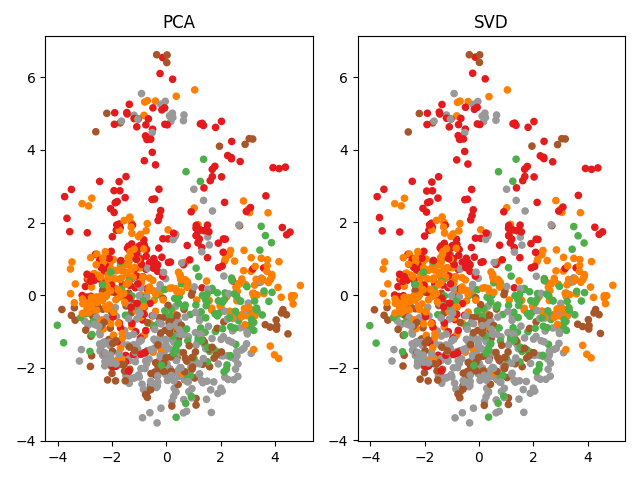
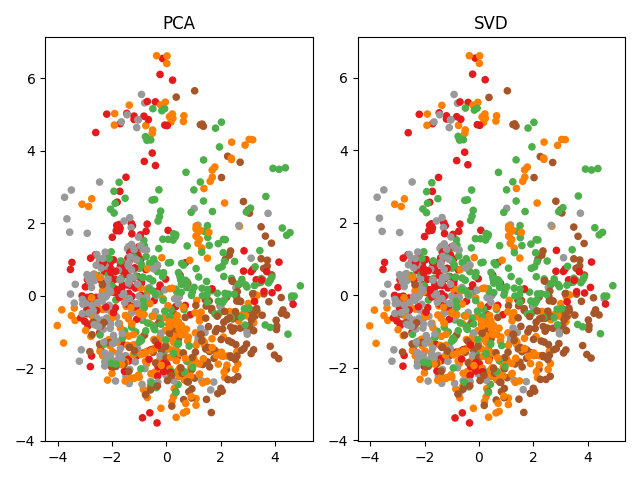
gmm

diff --git a/GMM/gmm.py b/GMM/gmm.py
@@ -1,84 +1,95 @@
-from sklearn.preprocessing import MinMaxScaler
-from sklearn.neighbors import KDTree
-from sklearn.datasets import load_iris
-from sklearn import neighbors
-from sklearn.cluster import KMeans
-from scipy import stats
 import numpy as np
+from sklearn.mixture import GaussianMixture
+from scipy.stats import multivariate_normal
 import matplotlib.pyplot as plt
-import pandas as pd
+from matplotlib.patches import Ellipse
 
-import math
-     
+class GMM:
+    def __init__(self, n_clusters, max_epochs, convergence_threshold, data, file):
+        self.n_clusters = n_clusters
+        self.max_epochs = max_epochs
+        self.convergence_threshold = convergence_threshold
+        self.data = data
+        self.file = file
+        self.centers = None
+        self.covs = None
+        self.weights = None
+        self.responsibilities = None
 
-# Se carga el dataset
+    def fit_(self, X):
+        gmm = GaussianMixture(n_components=self.n_clusters)
+        gmm.fit(X)
+        self.centers = gmm.means_
+        self.covs = gmm.covariances_
+        self.weights = gmm.weights_
 
-iris = load_iris()
+        # EM algorithm
+        prev_log_likelihood = None
+        for epoch in range(self.max_epochs):
+            print("EPOCH", epoch)
 
-X = iris.data[:,2:]
-Y = iris.target.reshape(-1, 1)
+            # E-step
+            log_likelihood, responsibilities = self._e_step(X)
 
-scaler = MinMaxScaler()
-X = scaler.fit_transform(X)
+            # Check convergence
+            if prev_log_likelihood is not None and np.abs(log_likelihood - prev_log_likelihood) < self.convergence_threshold:
+                break
 
+            # M-step
+            self._m_step(X, responsibilities)
 
-     
+            prev_log_likelihood = log_likelihood
 
-# Modelo
-def gauss(X, clusters=3):
-  # KMeans
-  kmeans = KMeans(n_clusters=clusters, n_init="auto").fit(X)
-  labels = kmeans.labels_
-  centers = kmeans.cluster_centers_
-  covs = []
-  for i in range(clusters):
-    covs.append(np.cov(X[labels==i].T))
+    def _e_step(self, X):
+        likelihood = np.zeros([X.shape[0], self.n_clusters])
+        for i in range(self.n_clusters):
+            multi_normal = multivariate_normal(self.centers[i], self.covs[i])
+            likelihood[:, i] = multi_normal.pdf(X)
 
-  covs = np.array(covs)
+        likelihood *= self.weights
 
-  pi = np.array([(labels==i).sum() for i in range(clusters)]) / len(labels)
+        responsibilities = likelihood / likelihood.sum(axis=1, keepdims=True)
+        responsibilities = np.nan_to_num(responsibilities, nan=1e-8)
 
-  return centers, covs, pi
+        log_likelihood = np.log(likelihood.sum(axis=1)).sum()
 
+        self.responsibilities = responsibilities
+        
+        return log_likelihood, responsibilities
 
-def EM(X, centers, covs, pi):
-  for epoch in range(100): # Se eligen 100 epochs
-    if epoch % 50 == 0:
-      print("EPOCH", epoch)
+    def _m_step(self, X, responsibilities):
+        N = responsibilities.sum(axis=0)
 
+        for i in range(self.n_clusters):
+            resp_col = responsibilities[:, i].reshape(-1, 1)
+            self.centers[i] = np.sum(resp_col * X, axis=0) / N[i]
+            dif = X - self.centers[i]
+            self.covs[i] = np.dot((resp_col * dif).T, dif) / N[i]
 
-  # Cálculo de likelihood
-  likelihood = np.zeros([X.shape[0], len(pi)])
+        self.weights = N / X.shape[0]
 
-  for i in range(len(pi)):
-    multi_normal = stats.multivariate_normal(centers[i], covs[i])
-    for j in range(X.shape[0]):
-      likelihood[j][i] = multi_normal.pdf(X[j])
-  
-  for i in range(len(pi)):
-    likelihood[:,i] *= pi[i]
+    def plot(self, X):
+        # Plot data points
+        plt.scatter(X[:, 0], X[:, 1], c=self.responsibilities.argmax(axis=1))
 
-  y = likelihood/likelihood.sum(1)[:,None]
+        # Plot cluster centers
+        plt.scatter(self.centers[:, 0], self.centers[:, 1], c='red', marker='x', label='Cluster Centers')
 
-  N = y.sum(0)
-  for i in range(len(pi)):
-    y_col = y[:, i].reshape(-1,1)
-    centers[i] = np.sum(y_col*X, 0) / N[i]
-    dif = X - centers[i]
-    covs[i] = np.dot((y_col * dif).T, dif) 
-    covs[i] /= N[i]
+        # Plot ellipses for covariance matrices
+        for i in range(self.n_clusters):
+            cov = self.covs[i]
+            center = self.centers[i]
+            eigenvalues, eigenvectors = np.linalg.eigh(cov)
 
-  pi = N/X.shape[0] 
+            angle = np.degrees(np.arctan2(eigenvectors[1, 0], eigenvectors[0, 0]))
+            width = 2 * np.sqrt(2 * eigenvalues[0])
+            height = 2 * np.sqrt(2 * eigenvalues[1])
 
-  return centers, covs, pi, y
+            ellipse = Ellipse(center, width, height, angle, edgecolor='r', facecolor='none')
+            plt.gca().add_patch(ellipse)
 
-  
-     
-
-centers, covs, pi = gauss(X)
-centers, covs, pi, y = EM(X, centers, covs, pi)
-
-labels = np.argmax(y, 1)
-
-print(labels.reshape(-1))
-print(Y.reshape(-1))
+        plt.xlabel('Feature 1')
+        plt.ylabel('Feature 2')
+        plt.title('GMM Clustering Results')
+        plt.legend()
+        plt.show()

diff --git a/main.py b/main.py
@@ -1,6 +1,7 @@
 from image_processing.image_processing import process_dataset, get_real_labels
 from kmeans.kmeans import Kmeans
 from DBSCAN.dbscan import DBSCAN
+from GMM.gmm import GMM
 import numpy as np
 import os
 import warnings
@@ -49,8 +50,18 @@ def test_kmeans(files, save_plots):
             metrics_evaluation(distances, kmean_vc.labels, file, i, data)
 
 
-def test_gmm(files, save_plots):
-    pass
+def test_gmm(data_path):
+    clusters = 6
+    epochs = 100
+    convergence_threshold = 1e-4
+    for path in data_path: # traverse each .csv
+        if path != "wavelet_feature_vectors_of__981.csv":
+            print(f"------------------------------- {path} -------------------------------")
+            data = np.loadtxt(charact_vec_path + "/" + path, delimiter=',')
+            gmm = GMM(clusters, epochs, convergence_threshold, data, path)
+            gmm.fit_(data)
+            gmm.plot(data)
+
 
 
 def test_dbscan(files, save_plots):
@@ -218,7 +229,7 @@ test_kmeans(csvs, savel_plots)
 print("\n------------------------- TESTING DBSCAN ---------------------------\n")
 test_dbscan(csvs, savel_plots)
 print("\n------------------------- TESTING GMM ---------------------------\n")
-test_gmm(csvs, savel_plots)
+test_gmm(csvs)
 print("\n Todos los plots generados pueden ubicarse en la carpeta 'images' \n")
     
 
